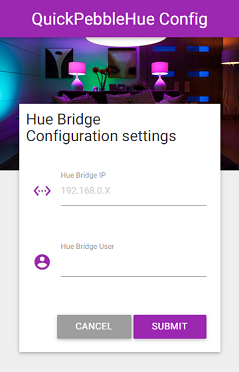
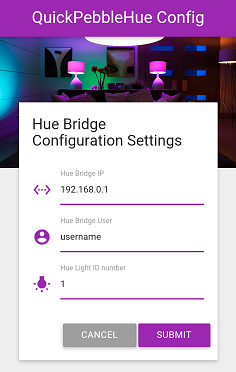
Update config page: Added Light ID to the configuration Page. The configuration page can now read data send in the URI to pre-fill the form data with currently saved settings. Fixed android webview transformation issue which caused background image to have wrong alignment. Added secondary image that

diff --git a/config/index.html b/config/index.html
@@ -12,21 +12,33 @@
             background-color: #eeeeee;
         }
         h5 {
-          padding: 10px 10px 25px 10px;
+          padding: 10px 10px 15px 10px;
         }
         nav .brand-logo {
             font-size: 1.8rem;
         }
-        .parallax-container {
+        .header-image-container {
+            position: relative;
+            overflow: hidden;
             height: 200px;
         }
-        .parallax-container img {
+        .header-image {
+            position: absolute;
+            top: 0;
+            left: 0;
+            right: 0;
+            bottom: 0;
+            z-index: -1;
+        }
+        .header-image img {
             max-width: 100%;
-            max-width: 100%;
+            min-width: 100%;
             min-height: 100%;
             display: block;
-            top: 0px; 
+            top: 0px;
             bottom: inherit;
+            position: absolute;
+            -webkit-transform: translate3d(0, 0, 0);
         }
         .container {
             margin-top: -100px;
@@ -59,37 +71,42 @@
     </nav>
 
     <!-- Header image -->
-    <div class="parallax-container">
-        <div class="parallax"><img src="header_background_1.jpg"></div>
+    <div class="header-image-container">
+        <div class="header-image"><img src="header_background_1.jpg"></div>
     </div>
 
     <!-- Content  -->
     <div class="container">
         <div class="row">
             <div class="col s12 white z-depth-1">
-                <h5> Hue Bridge<br>Configuration settings</h5>
+                <h5> Hue Bridge<br>Configuration Settings</h5>
                 <form class="col s12" id="config_form">
                     <div class="row">
                         <div class="input-field col s12">
                             <i class="mdi-action-settings-ethernet prefix"></i>
-                            <input id="hue_ip" name="hue_ip" type="tel" class="validate" placeholder="192.168.0.X">
-                            <label for="hue_ip">Hue Bridge IP</label>
+                            <input id="HUE_BRIDGE_IP" name="HUE_BRIDGE_IP" type="tel" class="validate" placeholder="192.168.0.X">
+                            <label for="HUE_BRIDGE_IP">Hue Bridge IP</label>
                         </div>
-                        <div class="input-field col s12">&nbsp;</div>
                         <div class="input-field col s12">
                             <i class="mdi-action-account-circle prefix"></i>
-                            <input id="hue_user" name="hue_user" type="text" class="validate" placeholder="">
-                            <label for="hue_user">Hue Bridge User</label>
+                            <input id="HUE_BRIDGE_USER" name="HUE_BRIDGE_USER" type="text" class="validate" placeholder="">
+                            <label for="HUE_BRIDGE_USER">Hue Bridge User</label>
                         </div>
-                        <div class="col s12 right-align">
-                            &nbsp;<br>&nbsp;<br>
-                            <button class="btn waves-effect waves-light grey" type="submit" id="cancel_button">Cancel
-                            </button>
-                            <button class="btn waves-effect waves-light purple" type="submit" id="submit_button">Submit
-                            </button>
+                        <div class="input-field col s12">
+                            <i class="mdi-image-wb-incandescent prefix"></i>
+                            <input id="HUE_LIGHT_ID" name="HUE_LIGHT_ID" type="tel" class="validate" placeholder="">
+                            <label for="HUE_LIGHT_ID">Hue Light ID number</label>
                         </div>
                     </div>
                 </form>
+                <div class="row">
+                    <div class="col s12 right-align">
+                        <button class="btn waves-effect waves-light grey" id="cancel_button">Cancel
+                        </button>
+                        <button class="btn waves-effect waves-light purple" id="submit_button">Submit
+                        </button>
+                    </div>
+                </div>
             </div>
         </div>
     </div>
@@ -100,18 +117,28 @@
 
     <!-- Javascript to submit the settings into the PebbleJS kit -->
     <script>
+        // Converts all the form data into a JSON string
         function jsonifyForm() {
             var jsonForm = JSON.stringify($("#config_form").serializeArray());
             console.log(jsonForm);
             return jsonForm;
         }
         $().ready(function() {
+            // Prepare the button click listeners
             $("#cancel_button").click(function() {
+                console.log("Cancel");
                 document.location = "pebblejs://close";
             });
             $("#submit_button").click(function() {
+                console.log("Submit");
                 document.location = "pebblejs://close#" + encodeURIComponent(jsonifyForm());
             });
+
+            // Load the pre-filled data from PebbleKit JS
+            var jsonFormData = jQuery.parseJSON(decodeURIComponent(window.location.search.substring(1)));
+            for(key in jsonFormData) {
+                $("#"+[key]).val(jsonFormData[key]);
+            }
         });
     </script>
 </body>
